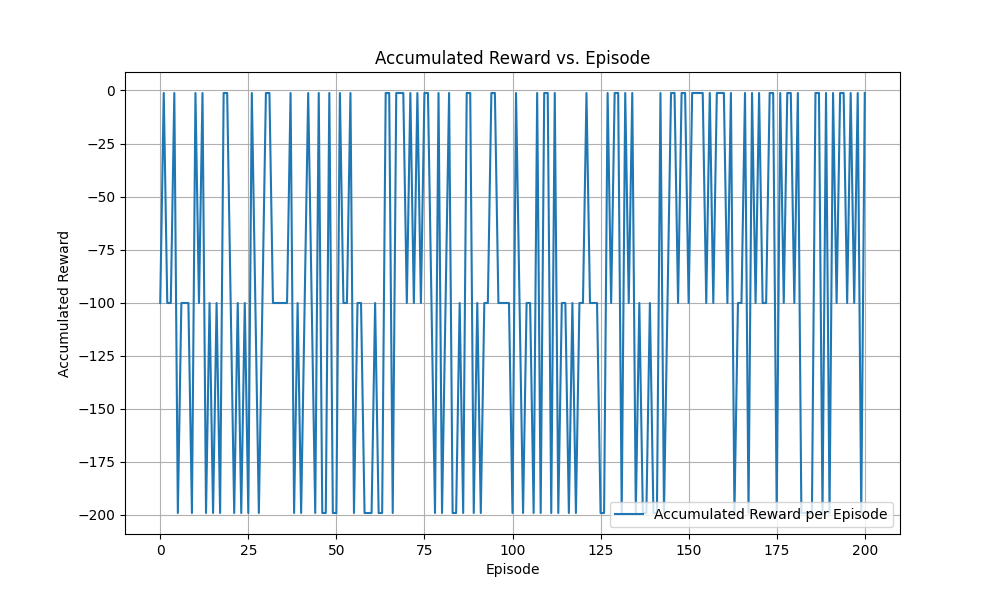
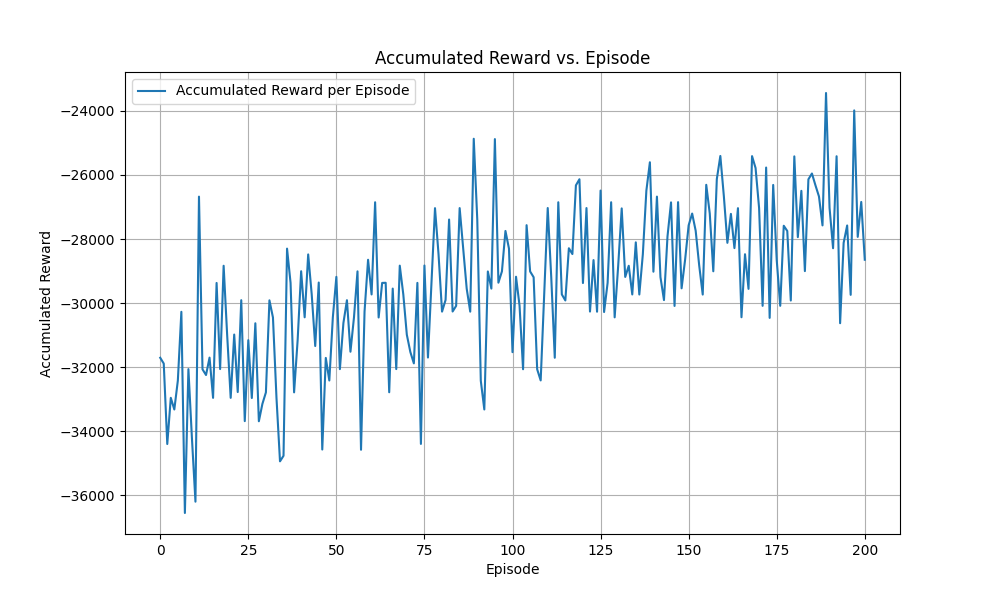
Optimize Iteration Speed
move read json process to environment file
now one episode takes about 5 sec

diff --git a/wns2/gym/cac_env.py b/wns2/gym/cac_env.py
@@ -16,28 +16,27 @@ logging.basicConfig(format='%(asctime)s - %(name)s - %(levelname)s - %(message)s
 class CACGymEnv(gym.Env):
     metadata = {'render.modes': ['human']}
 
-    def init_env(self, x_lim, y_lim, terr_parm, sat_parm, n_ue, datarate, max_datarate=None, max_symbols=None, service_class=None, max_power_action=10):
+    def init_env(self, x_lim, y_lim, terr_parm, sat_parm, n_ue, datarate, ue_data, max_datarate=None, max_symbols=None, service_class=None, max_power_action=10):
         """init `self.env` as Environment using inputs"""
         self.n_step = 1
-        self.env = Environment(x_lim, y_lim)
+        self.env = Environment(x_lim, y_lim, ue_data)
         self.init_pos = []  # for reset method
         
         # random determine user position
-        for i in range(0, n_ue):
-            pos = (0, 0, 1)
+        # for i in range(0, n_ue):
+        #     pos = (0, 0, 1)
             
-            service_datarate = datarate
-            if (service_class is not None):
-                class_id = self.class_list[i]
-                service_datarate = service_class[class_id][0] # a tuple containing base DR and level DR
-            self.datarate = service_datarate
+        #     service_datarate = datarate
+        #     if (service_class is not None):
+        #         class_id = self.class_list[i]
+        #         service_datarate = service_class[class_id][0] # a tuple containing base DR and level DR
+        #     self.datarate = service_datarate
 
-            self.env.add_user(
-                UserEquipment(
-                    self.env, i, service_datarate, pos, speed = 0, direction = 0, #_lambda_c=5, _lambda_d = 15
-                ))
-            self.init_pos.append(pos)
-
+        #     self.env.add_user(
+        #         UserEquipment(
+        #             self.env, i, service_datarate, pos, speed = 0, direction = 0, #_lambda_c=5, _lambda_d = 15
+        #         ))
+        #     self.init_pos.append(pos)
         
         for i in range(len(sat_parm)):
             self.env.add_base_station(
@@ -57,9 +56,11 @@ class CACGymEnv(gym.Env):
         self.sat_parm = sat_parm
         
 
-    def __init__(self, x_lim, y_lim, class_list, terr_parm, sat_parm, base_cart, max_cart, datarate = 25, service_class=None, n_action=3):
+    def __init__(self, x_lim, y_lim, class_list, terr_parm, sat_parm, base_cart, max_cart, datarate = 25, service_class=None, n_action=3,
+                 load_cart_file="../environment/pop_data/user_cart_dict_uniform.json"):
             """
             ### parameters
+            - `load_cart_file`: load user coordinate data from json file
             - `datarate`: this member value is filled in `CACGymEnv.init_env` with `service_datarate`
             - `service_class`: service class defined in `my_gym.py`
             - `n_action`: number of possible actions in action space
@@ -69,7 +70,6 @@ class CACGymEnv(gym.Env):
             - `power_level` : `self.current_power` stores current power level 
             (note: should set power level higher, at least 10, to actually allocate resource to multi-users)
             - `avg channel capacity` : calculated by subtracting current allocated capacity from total capacity
-            - `connected_users` : 
             - `connected_users` : 
 
             """
@@ -109,26 +109,28 @@ class CACGymEnv(gym.Env):
             self.n_ue = len(class_list)
             # pick randomly `self.n_next_connecting_ue` users for next step connection
             self.n_next_connecting_ue = 200
-            self.n_next_connecting_ue = 200
             self.service_class = service_class
 
- 
-            self.init_env(x_lim, y_lim, terr_parm, sat_parm, self.n_ue, datarate, 
-                          max_datarate=self.bs_max_datarate, max_symbols=self.bs_max_symbols, service_class=service_class, 
-                          max_power_action=self.max_power_level)
-            
             # pre-determine class type
+            self.load_cart_file = load_cart_file
             bs_dir_name = os.path.dirname(__file__)
-            read_json_path = os.path.join(bs_dir_name, "../environment/pop_data/user_cart_dict.json")
+            read_json_path = os.path.join(bs_dir_name, self.load_cart_file)
             with open(read_json_path, 'r') as file:
                 ue_data = json.load(file)
 
+            self.ue_data = ue_data
+
+            self.init_env(x_lim, y_lim, terr_parm, sat_parm, self.n_ue, datarate, ue_data,
+                          max_datarate=self.bs_max_datarate, max_symbols=self.bs_max_symbols, service_class=service_class, 
+                          max_power_action=self.max_power_level)
+            
             # UE list from satellite BS python file
             self.ue_class_type = {}
             for region, ue_list in ue_data.items():
                 for i in range(len(ue_list)):
                     ue_id = f"{region}_{i}"  # Create a unique UE ID (BS.py)
                     self.ue_class_type[ue_id] = self.env.determine_service()
+
 
     def observe(self):
         """
@@ -186,11 +188,6 @@ class CACGymEnv(gym.Env):
         - `sat_pos`: 3D carteiran coord.
         """
         done = ((sat_pos[1] <= 38) or (sat_pos[1] >= 42) or (sat_pos[2] <= 23.7) or (sat_pos[2] >= 39.6))
-
-        # if (sat_pos[1] <= 38) or (sat_pos[1] >= 42) or (sat_pos[2] <= 23.7) or (sat_pos[2] >= 39.6):
-        #     done = True
-        # else:
-        #     done = False
             
         return done
 
@@ -259,7 +256,7 @@ class CACGymEnv(gym.Env):
         return observation, reward, done, info
 
     def reset(self):
-        self.init_env(self.x_lim, self.y_lim, self.terr_parm, self.sat_parm, self.n_ue, self.datarate, self.max_power_level)
+        self.init_env(self.x_lim, self.y_lim, self.terr_parm, self.sat_parm, self.n_ue, self.datarate, self.ue_data, self.max_power_level)
         # go back 1 time instant, so at the next step() the connection_advertisement list will not change
         observation = self.observe()
         return observation

diff --git a/wns2/basestation/satellitebasestation.py b/wns2/basestation/satellitebasestation.py
@@ -90,17 +90,18 @@ class SatelliteBaseStation(BaseStation):
         """
         Update the position of the satellite using spherical coordinates.
         """
-        bs_dir_name = os.path.dirname(__file__)
-        read_json_path = os.path.join(bs_dir_name, "../environment/pop_data/user_cart_dict.json")
-        with open(read_json_path, 'r') as file:
-            ue_data = json.load(file)
+        # bs_dir_name = os.path.dirname(__file__)
+        # read_json_path = os.path.join(bs_dir_name, "../environment/pop_data/user_cart_dict.json")
+        # with open(read_json_path, 'r') as file:
+        #     ue_data = json.load(file)
 
         # Combine all UEs from all regions into a single dictionary
-        ue_positions = {}
-        for region, ue_list in ue_data.items():
-            for i, ue_pos in enumerate(ue_list):
-                ue_id = f"{region}_{i}"  # Create a unique UE ID
-                ue_positions[ue_id] = ue_pos
+        # ue_data = self.env.ue_data
+        # ue_positions = {}
+        # for region, ue_list in ue_data.items():
+        #     for i, ue_pos in enumerate(ue_list):
+        #         ue_id = f"{region}_{i}"  # Create a unique UE ID
+        #         ue_positions[ue_id] = ue_pos
         
         h = self.altitude
         r, theta, phi = self.position
@@ -151,7 +152,7 @@ class SatelliteBaseStation(BaseStation):
         self.connected_ues = {}
 
         # Determine which UEs are within the coverage radius
-        for ue_id, ue_pos in ue_positions.items():
+        for ue_id, ue_pos in self.env.ue_positions.items():
             ue_x, ue_y = ue_pos
             distance = math.sqrt((ue_x - x) ** 2 + (ue_y - y) ** 2)
             if distance <= coverage_radius:

diff --git a/wns2/environment/environment.py b/wns2/environment/environment.py
@@ -12,7 +12,7 @@ MIN_RSRP = -140
 logging.basicConfig(format='%(asctime)s - %(name)s - %(levelname)s - %(message)s', level=logging.DEBUG)
 
 class Environment:
-    def __init__(self, h, l, sampling_time = 1, renderer = None):
+    def __init__(self, h, l, ue_data, sampling_time = 1, renderer = None):
         self.h = h
         self.l = l
         self.ue_list = {}
@@ -25,6 +25,15 @@ class Environment:
 
         self.drone_aps = []
         
+        self.ue_data = ue_data # from json file containing user coordinates
+
+        # create dict of user coordinates
+        self.ue_positions = {}
+        for region, ue_list in ue_data.items():
+            for i, ue_pos in enumerate(ue_list):
+                ue_id = f"{region}_{i}"  # Create a unique UE ID
+                self.ue_positions[ue_id] = ue_pos
+
         """    
         - `required_data_rate`: base level of required data rate (in bps)
         - `qos_level_data_rate`: every rate of this, obtain another qos level (in bps)
